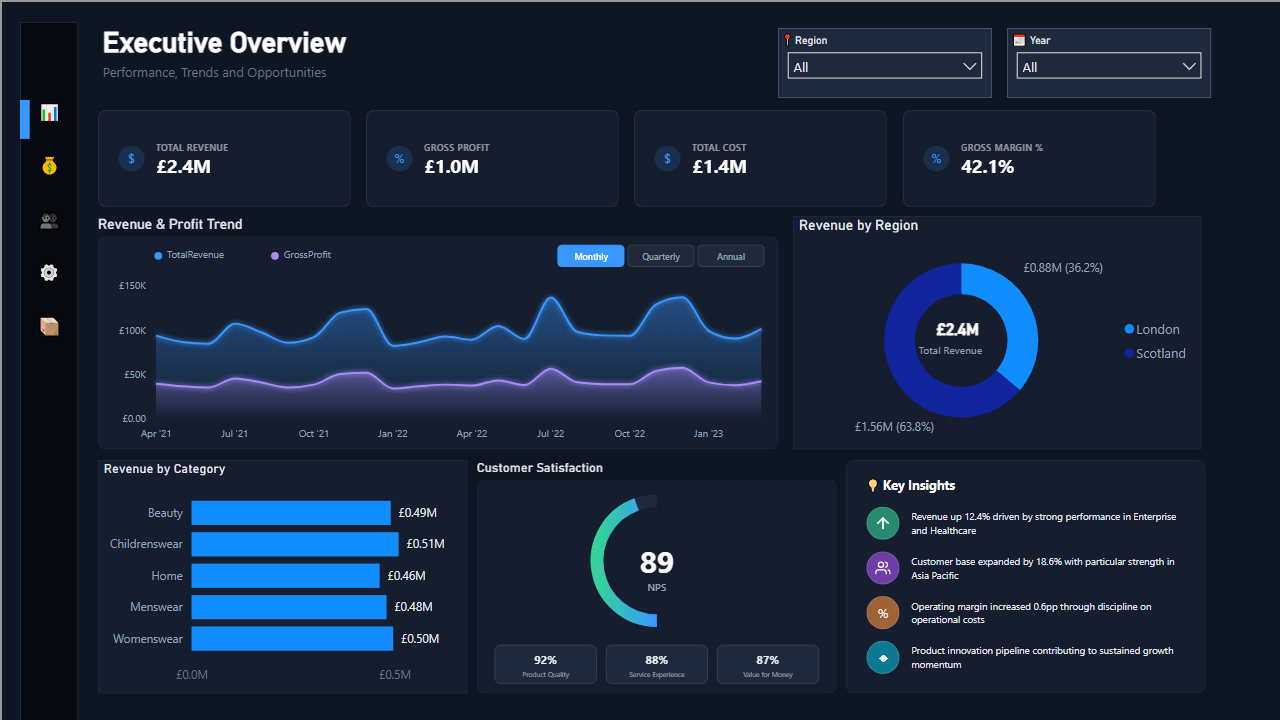
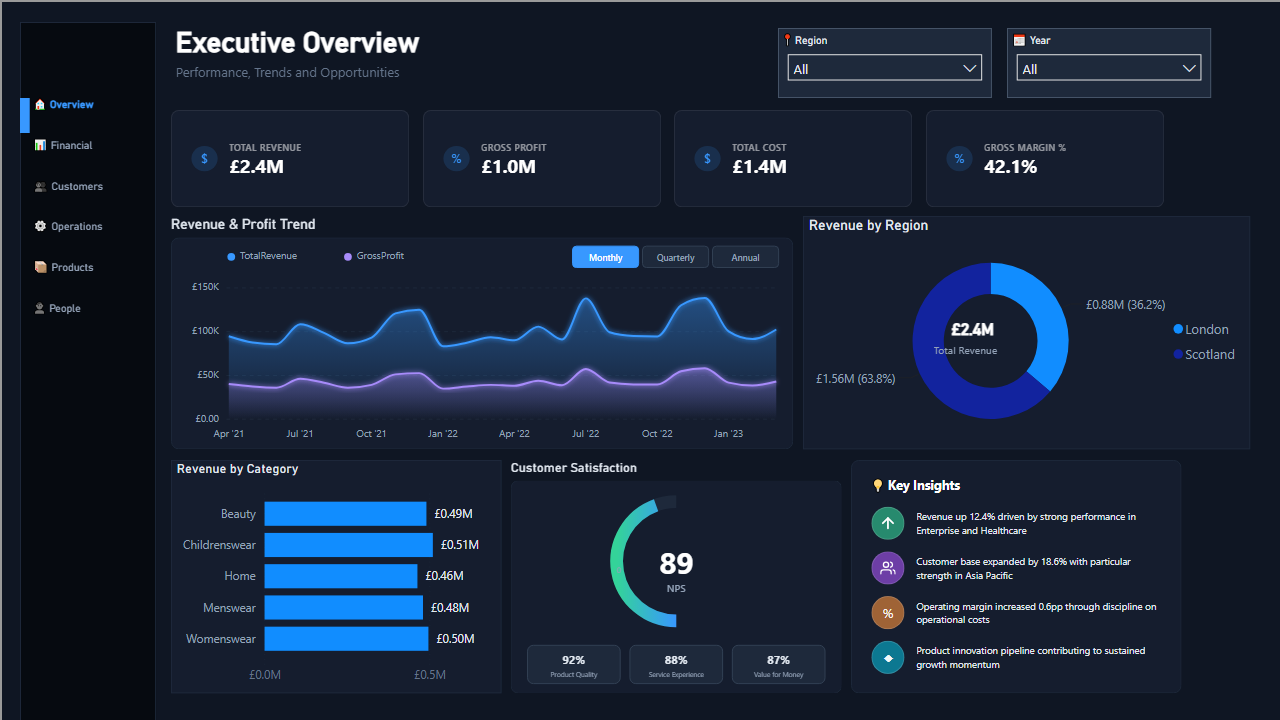
feat(07e): wider nav bar with text labels matching mockup sidebar style

diff --git a/scripts/_deploy_exec_v1.py b/scripts/_deploy_exec_v1.py
@@ -183,7 +183,7 @@ kpi_measures = [
     ("Gross Margin", "Sales", "GrossMarginPct"),
 ]
 
-kpi_start_x = 80
+kpi_start_x = 155
 
 # Visual container helper
 def vis_container(name, x, y, w, h, z_idx):
@@ -194,9 +194,9 @@ def vis_container(name, x, y, w, h, z_idx):
     }
 
 # ===== KPI ROW (4 cards) =====
-kpi_width = 260
+kpi_width = 245
 kpi_height = 100
-kpi_gap = 16
+kpi_gap = 14
 kpi_y = 90
 
 # ===== PAGE TITLE (using actionTitle visual) =====
@@ -375,7 +375,7 @@ for i, (label, entity, prop) in enumerate(kpi_measures):
 
 # ===== HERO AREA CHART (single, with internal toggles) =====
 hero_y = kpi_y + kpi_height + 10
-hero_width = 700
+hero_width = 640
 hero_height = 240
 
 hero_vis = vis_container("hero_line", kpi_start_x, hero_y, hero_width, hero_height, 10)
@@ -424,8 +424,8 @@ hero_vis["visual"] = {
 add("definition/pages/exec/visuals/hero_line/visual.json", hero_vis)
 
 # ===== DONUT CHART (Revenue by Region) =====
-donut_x = kpi_start_x + 700 + 15
-donut_vis = vis_container("donut_region", donut_x, hero_y, 420, 240, 11)
+donut_x = kpi_start_x + 640 + 10
+donut_vis = vis_container("donut_region", donut_x, hero_y, 460, 240, 11)
 donut_vis["visual"] = {
     "visualType": "donutChart",
     "query": {"queryState": {
@@ -469,7 +469,7 @@ donut_vis["visual"] = {
 add("definition/pages/exec/visuals/donut_region/visual.json", donut_vis)
 
 # Center KPI label for donut - centered on the donut ring
-donut_center_x = donut_x + 125  # center on ring (legend takes ~100px on right)
+donut_center_x = donut_x + 130  # center on ring (legend takes ~100px on right)
 donut_center_y = hero_y + 105   # vertical center of ring (below title)
 donut_kpi = vis_container("donut_kpi", donut_center_x, donut_center_y, 90, 42, 20)
 donut_kpi["visual"] = {
@@ -503,9 +503,9 @@ add("definition/pages/exec/visuals/donut_kpi/visual.json", donut_kpi)
 # ===== BOTTOM ROW: 3 panels =====
 bar_y = hero_y + 240 + 10
 bottom_panel_height = 240
-panel1_width = 380
-panel2_width = 370
-panel3_width = 370
+panel1_width = 340
+panel2_width = 340
+panel3_width = 340
 panel_gap = 10
 
 # Panel 1: Revenue by Category (bar chart)
@@ -608,8 +608,8 @@ insights_vis["visual"] = {
 }
 add("definition/pages/exec/visuals/key_insights/visual.json", insights_vis)
 
-# ===== LEFT NAV RAIL =====
-nav_vis = vis_container("nav_rail", 0, 0, 60, 720, 1)
+# ===== LEFT NAV RAIL (wider, with text labels like mockup) =====
+nav_vis = vis_container("nav_rail", 0, 0, 140, 720, 1)
 nav_vis["visual"] = {
     "visualType": "textbox",
     "objects": {
@@ -634,7 +634,7 @@ nav_vis["visual"] = {
 add("definition/pages/exec/visuals/nav_rail/visual.json", nav_vis)
 
 # Active indicator line on nav rail
-nav_indicator = vis_container("nav_indicator", 0, 80, 4, 40, 3)
+nav_indicator = vis_container("nav_indicator", 0, 78, 4, 36, 3)
 nav_indicator["visual"] = {
     "visualType": "textbox",
     "objects": {
@@ -655,17 +655,18 @@ nav_indicator["visual"] = {
 }
 add("definition/pages/exec/visuals/nav_indicator/visual.json", nav_indicator)
 
-# Nav icons using card visuals (renders text reliably)
+# Nav menu items with text labels (using card visuals)
 nav_items = [
-    ("📊", "'#3898ff'"),  # Executive Overview (active)
-    ("💰", "'#475569'"),  # Financial
-    ("👥", "'#475569'"),  # Sales & Customers
-    ("⚙", "'#475569'"),  # Operations
-    ("📦", "'#475569'"),  # Products
+    ("🏠 Overview", "'#3898ff'", True),
+    ("📊 Financial", "'#94a3b8'", False),
+    ("👥 Customers", "'#94a3b8'", False),
+    ("⚙ Operations", "'#94a3b8'", False),
+    ("📦 Products", "'#94a3b8'", False),
+    ("👤 People", "'#94a3b8'", False),
 ]
-for ni, (nav_icon, nav_color) in enumerate(nav_items):
-    ny = 80 + ni * 55
-    nav_card = vis_container(f"nav_item_{ni}", 12, ny, 36, 36, 4)
+for ni, (nav_label, nav_color, is_active) in enumerate(nav_items):
+    ny = 75 + ni * 42
+    nav_card = vis_container(f"nav_item_{ni}", 8, ny, 126, 36, 4)
     nav_card["visual"] = {
         "visualType": "cardVisual",
         "query": {"queryState": {"Values": {"projections": [{
@@ -675,10 +676,10 @@ for ni, (nav_icon, nav_color) in enumerate(nav_items):
         "visualContainerObjects": {
             "title": [{"properties": {
                 "show": {"expr": {"Literal": {"Value": "true"}}},
-                "text": {"expr": {"Literal": {"Value": "'" + nav_icon + "'"}}},
+                "text": {"expr": {"Literal": {"Value": "'" + nav_label + "'"}}},
                 "fontColor": {"solid": {"color": {"expr": {"Literal": {"Value": nav_color}}}}},
-                "fontSize": {"expr": {"Literal": {"Value": "14D"}}},
-                "alignment": {"expr": {"Literal": {"Value": "'center'"}}},
+                "fontSize": {"expr": {"Literal": {"Value": "9D"}}},
+                "bold": {"expr": {"Literal": {"Value": "true" if is_active else "false"}}},
             }}],
             "background": [{"properties": {"show": {"expr": {"Literal": {"Value": "false"}}}}}],
             "border": [{"properties": {"show": {"expr": {"Literal": {"Value": "false"}}}}}],
